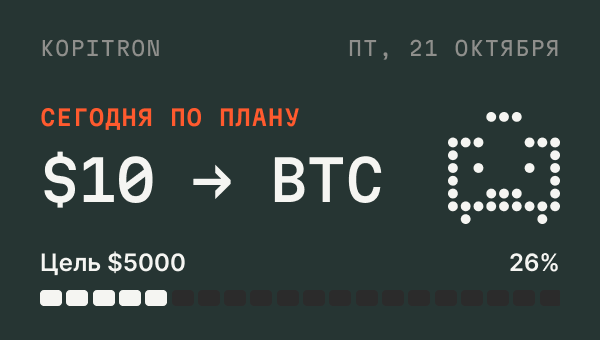
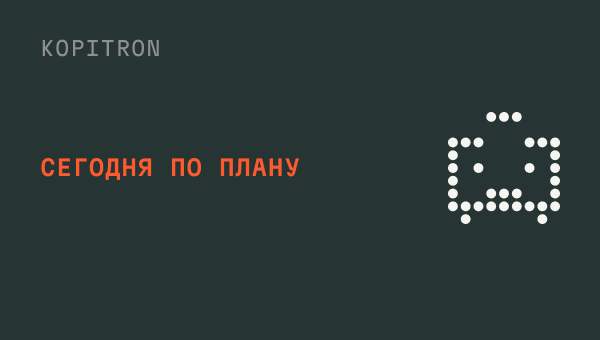
Напоминание: данные пользователя в подписи, карточка без цифр
Сумма, монета, дата и прогресс цели теперь в тексте под картинкой
и подставляются под каждого. Временная карточка без данных.

Claude-Session: https://claude.ai/code/session_01N3SsWvtJbuWw3FFdewdrsu

diff --git a/bot/src/index.js b/bot/src/index.js
@@ -38,12 +38,35 @@ async function sendWelcome(env, chatId) {
   })
 }
 
-function reminderCaption({ amount = 10, coin = 'Bitcoin' } = {}) {
-  return ['<b>Пора положить в копилку</b>', '', `<code>$${amount} → ${coin}</code>`].join('\n')
+// Пример плана, пока нет базы. Потом данные придут из D1 для каждого пользователя.
+const SAMPLE_PLAN = { amount: 10, coin: 'BTC', goal: 5000, saved: 1300, timeZone: 'Europe/Moscow' }
+
+const fmtMoney = (n) => (n >= 10000 ? n.toLocaleString('ru-RU') : String(n)) // $1284, $12 840
+
+// Шкала цели из точек: 20 делений, как на карточке
+function goalBar(saved, goal, size = 20) {
+  const filled = Math.max(0, Math.min(size, Math.round((saved / goal) * size)))
+  return '●'.repeat(filled) + '○'.repeat(size - filled)
+}
+
+function reminderCaption(plan = SAMPLE_PLAN, now = new Date()) {
+  const date = new Intl.DateTimeFormat('ru-RU', {
+    weekday: 'short',
+    day: 'numeric',
+    month: 'long',
+    timeZone: plan.timeZone,
+  }).format(now)
+  const lines = [`<b>$${fmtMoney(plan.amount)} → ${plan.coin}</b>`, date]
+  if (plan.goal) {
+    const pct = Math.round((plan.saved / plan.goal) * 100)
+    lines.push('', `Цель $${fmtMoney(plan.goal)}, ${pct}%`, `<code>${goalBar(plan.saved, plan.goal)}</code>`)
+  }
+  return lines.join('\n')
 }
 
 async function sendReminder(env, chatId, plan) {
-  const amount = plan?.amount ?? 10
+  plan = plan ?? SAMPLE_PLAN
+  const amount = plan.amount
   return api(env, 'sendPhoto', {
     chat_id: chatId,
     photo: `${env.ASSETS_URL}reminder.png`,
